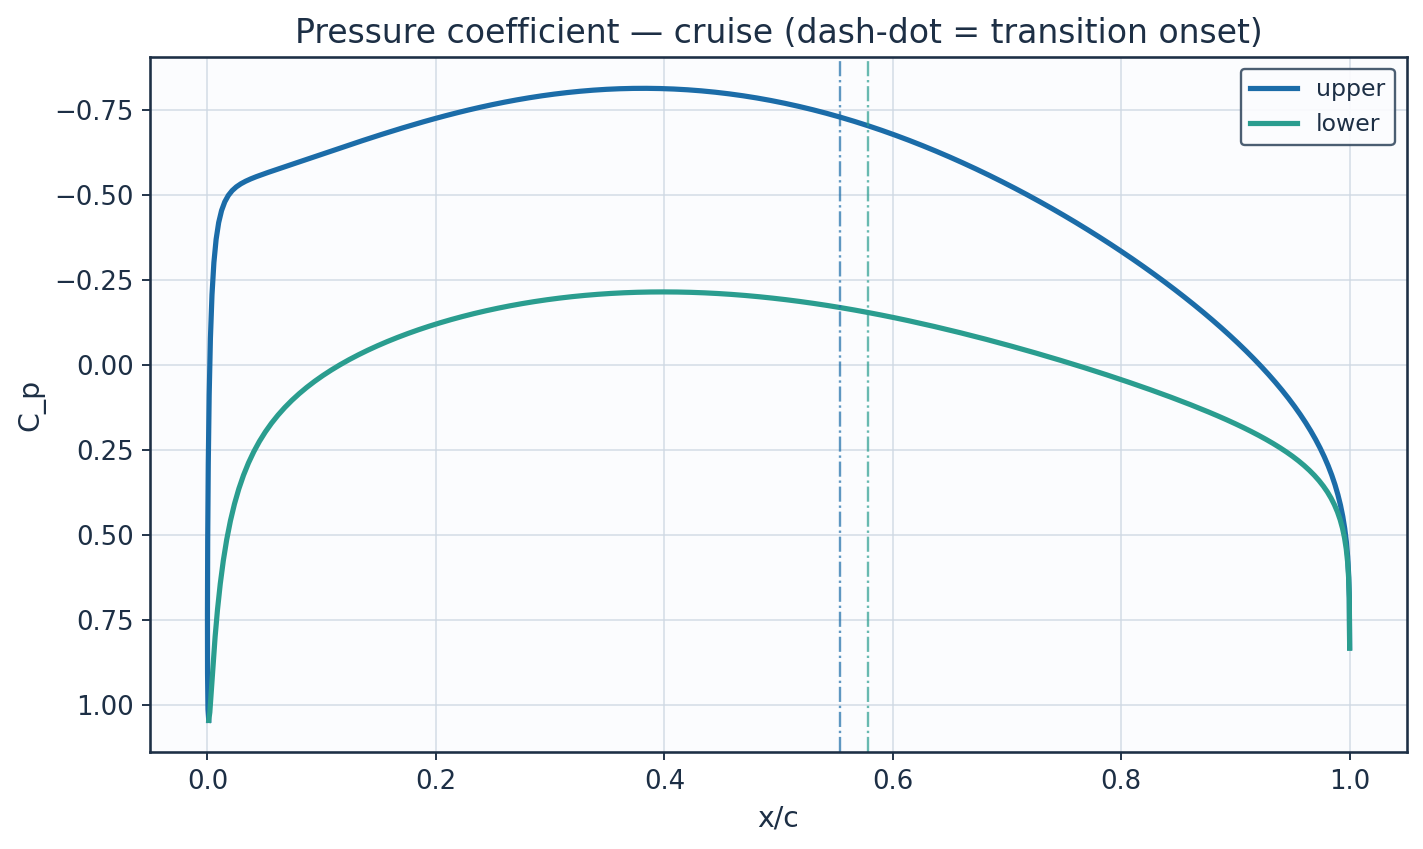
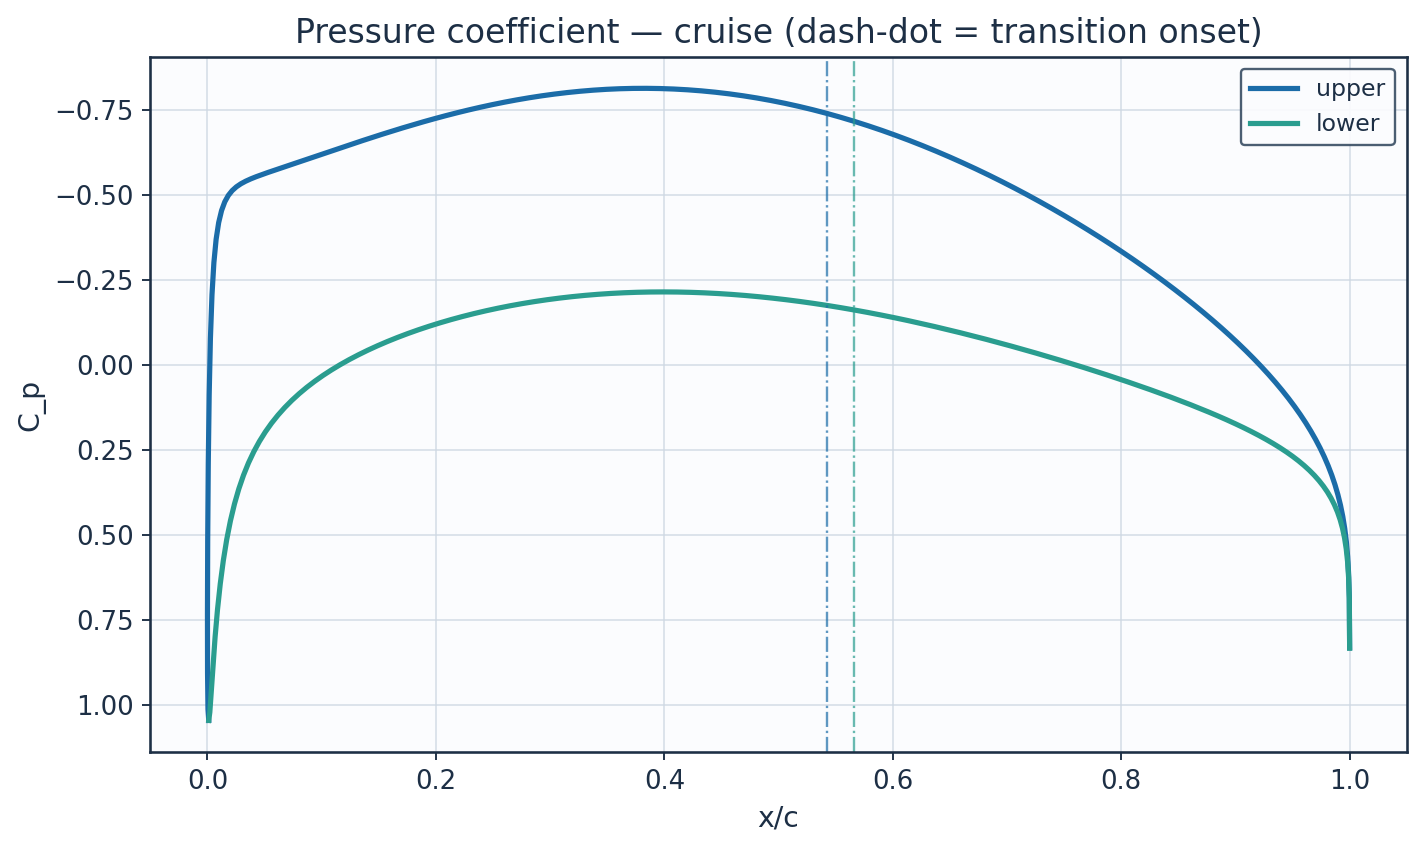
Fourth pass: mark onset where the march fired, close every panel loop
A fourth audit pass, run to the same standard as the first three and applied to
the ~600 lines those three added.  Three defects, and the third is the one worth
recording.

* THE FIGURES MARKED TRANSITION ONE PANEL AFT OF THE TABLES.  Narasimha's
  intermittency is 1 - exp(-0.412 xi^2) with xi = 0 at onset, so gamma is
  EXACTLY zero at the station the kernel fired at.  Six places in
  gen_postprocessing located onset as the first station with gamma > 1e-6, which
  is one station later: on the cruise upper surface the dashed "transition
  onset" line stood at x/c = 0.554 against the 0.542 that transition_summary.csv
  and the report's tables give.  Two artefacts of the same run placing the same
  event 0.012c apart.  They key on the state column now, which march_bl writes
  exactly at i_tr, and a check asserts the distinction.

* THE NACA 64(2)A015 PANEL LOOP WAS OPEN.  panel_solve is a closed-body method -
  N+1 points, N panels, first equal to last, Kutta at a trailing edge that is one
  point - and Selig files need not oblige: that section is tabulated with a blunt
  trailing edge at y = +/-0.00032, so _section_points returned a body with a
  0.00064c slit in it.  Measured, it moves no transition location on the Boltz
  set to three decimals, but nothing was checking and a genuinely thick trailing
  edge would not be so forgiving.  Closed at the mean, and smoke now asserts
  closure for all four sections the project panels, not just the designed one.
[…]

Changed region(s): [[0.5875, 0.0612, 0.6184, 0.8881]]

diff --git a/gen_postprocessing.py b/gen_postprocessing.py
@@ -48,9 +48,26 @@ W=C.WING; cr=C.CRUISE; cl=C.CLIMB
 
 LAM_BAND="#d7e3ef"      # single soft tint for the laminar run
 
+def _onset_index(df):
+    """The station the kernel fired at, as the march recorded it.
+
+    NOT the first station with gamma > 0.  The Narasimha intermittency is
+    1 - exp(-0.412 xi^2) with xi = (s - s_tr)/lambda, so gamma is EXACTLY zero
+    at onset and only becomes positive one station later.  Every figure in this
+    module drew its "transition onset" line there, one panel downstream of the
+    x_tr/c that transition_summary.csv and validation_summary.csv report - on
+    the cruise upper surface, 0.554 against the table's 0.542.  Two artefacts in
+    the same report placing the same event 0.012c apart.
+
+    The state column is exact: march_bl writes "laminar" strictly below i_tr and
+    "transitional" or "turbulent" from i_tr on.
+    """
+    it=df.index[df["state"]!="laminar"]
+    return int(it[0]) if len(it) else None
+
 def _onset(df):
-    it=df.index[df["intermittency_gamma"]>1e-6]
-    return float(df["x_c"][it[0]]) if len(it) else None
+    i=_onset_index(df)
+    return float(df["x_c"][i]) if i is not None else None
 
 def _state_bands(ax, up, lo, cu=PALETTE[0], cl=PALETTE[6]):
     """Clean regime cue: shade only the laminar run (one soft tint) and mark
@@ -161,8 +178,8 @@ def plot_surface(case):
     ax.plot(up["x_c"],up["Cp"],color=PALETTE[0],lw=2.2,label="upper")
     ax.plot(lo["x_c"],lo["Cp"],color=PALETTE[2],lw=2.2,label="lower")
     for d,c in [(up,PALETTE[0]),(lo,PALETTE[2])]:
-        it=d.index[d["intermittency_gamma"]>1e-6]
-        if len(it): ax.axvline(d["x_c"][it[0]],color=c,ls="-.",lw=1.0,alpha=0.7)
+        i=_onset_index(d)
+        if i is not None: ax.axvline(d["x_c"][i],color=c,ls="-.",lw=1.0,alpha=0.7)
     ax.invert_yaxis(); ax.set_xlabel("x/c"); ax.set_ylabel("C_p")
     ax.set_title(f"Pressure coefficient — {case} (dash-dot = transition onset)")
     ax.legend(fontsize=10); finish(fig,f"{CSVP}/{case}_Cp.png")
@@ -215,8 +232,8 @@ def plot_surface(case):
     # threshold is simply absent there.  Both are drawn, the amplification
     # factor on its own axis, and the mechanism is named in the title so the
     # reader knows which pair to read.
-    lam_only=up[up["x_c"]<=(up["x_c"][up.index[up["intermittency_gamma"]>1e-6][0]]
-                            if len(up.index[up["intermittency_gamma"]>1e-6])
+    _i0=_onset_index(up)
+    lam_only=up[up["x_c"]<=(up["x_c"][_i0] if _i0 is not None
                             else up["x_c"].max())]
     fig,ax=new_fig(8.6,5.2)
     ax.plot(up["x_c"],up["Re_theta"],color=PALETTE[0],lw=2.2,label="Re_θ")
@@ -231,19 +248,19 @@ def plot_surface(case):
     ax2.plot(up["x_c"],up["n_crit"],color=PALETTE[5],lw=1.6,ls=":",label="N_crit")
     ax2.set_ylabel("amplification factor N",color=PALETTE[4])
     ax2.set_ylim(0, max(float(up["n_crit"].max()), float(up["n_factor"].max()))*1.35)
-    it=up.index[up["intermittency_gamma"]>1e-6]
-    if len(it):
-        xt=up["x_c"][it[0]]
+    it=_onset_index(up)
+    if it is not None:
+        xt=up["x_c"][it]
         ax.axvline(xt,color=PALETTE[1],ls="-.",lw=1.3)
-        ax.scatter([xt],[up["Re_theta"][it[0]]],s=80,color=PALETTE[1],zorder=5,
+        ax.scatter([xt],[up["Re_theta"][it]],s=80,color=PALETTE[1],zorder=5,
                    label="transition onset")
     # Show the run over which the criterion is live.  On the climb case
     # transition is at 0.025c, so the whole crossing sits in the leftmost three
     # per cent of a full-chord axis and cannot be read.
-    if len(it):
-        ax.set_xlim(-0.01, min(1.0, max(3.0*float(up["x_c"][it[0]]), 0.2)))
+    if it is not None:
+        ax.set_xlim(-0.01, min(1.0, max(3.0*float(up["x_c"][it]), 0.2)))
     ax.set_xlabel("x/c"); ax.set_ylabel("Re_θ",color=PALETTE[0])
-    mech=(up["state"].iloc[-1] if not len(it) else
+    mech=(up["state"].iloc[-1] if it is None else
           pd.read_csv(f"{SOL}/transition_summary.csv")
             .query("case==@case.upper() and surface=='upper'")["mechanism"].iloc[0])
     ax.set_title(f"Transition criterion — {case} upper (governing mechanism: {mech})")
@@ -271,8 +288,8 @@ def plot_cruise_climb_compare():
     ax.plot(mcm["x_c"],mcm["Cf"]*1e3,color=PALETTE[1],lw=2.4,
             label="climb (Tu=0.9%, bypass)")
     for d,c in [(cu,PALETTE[0]),(cm,PALETTE[1])]:
-        it=d.index[d["intermittency_gamma"]>1e-6]
-        if len(it): ax.axvline(d["x_c"][it[0]],color=c,ls="-.",lw=1.1)
+        i=_onset_index(d)
+        if i is not None: ax.axvline(d["x_c"][i],color=c,ls="-.",lw=1.1)
     ax.set_ylim(0,_cf_ylim(cu,cm))
     ax.set_xlabel("x/c"); ax.set_ylabel("C_f ×10³")
     ax.set_title("Upper-surface C_f: cruise vs climb — regime-dependent transition")

diff --git a/solver/utss_solver.py b/solver/utss_solver.py
@@ -293,11 +293,11 @@ def _n_crit(Tu_pct, floor=0.5, anchor=1.10):
     the mean absolute error rose, which is what happens when a constant stops
     being fitted to the set it is scored on.  The flat plate goes from +5.6 per
     cent to +0.07 per cent.  The error figures are NOT quoted here: this said
-    "0.0319c to 0.0334c", and the set's mean has since moved to 0.0384c with
-    corrections that have nothing to do with the anchor, so a before-and-after
-    pair frozen in a docstring stops describing the model as soon as anything
-    else changes.  06_validation/aerofoil_nlf0416_summary.csv carries the
-    current value and is regenerated with the rest.
+    "0.0319c to 0.0334c", and the set's mean has since moved with corrections
+    that have nothing to do with the anchor, so a before-and-after pair frozen
+    in a docstring stops describing the model as soon as anything else changes.
+    06_validation/aerofoil_nlf0416_summary.csv carries the current value and is
+    regenerated with the rest; it is deliberately not repeated here.
 
     Note that the quoted 1100 is itself approximate - the literature gives
     Re_x,tr ~ 2.8e6 and Re_theta = 0.664 sqrt(Re_x) - so the anchor is quoted
@@ -1113,9 +1113,10 @@ def march_bl(s, Ue, nu, Tu_pct=0.2, sweep_deg=0.0, cal=None, a_sound=0.0,
         # This comment used to say about 40 momentum thicknesses on T3C4 at
         # Tu = 2.1 % and about 180 on the aerofoil at 0.03 %, "a spread of four
         # and a half", while the report and the README said 42 and 226, "a
-        # spread of five and a half"; the solver returns 26 and a median of
-        # 206, a spread of nearly eight.  The claim was true and all three
-        # statements of it were wrong, in both directions.
+        # spread of five and a half".  All three were wrong, in both
+        # directions, which is why the current lengths are NOT restated here -
+        # a comment cannot read a CSV, so quoting one is how this happened.
+        # The generated file is the answer.
         # Separation is detected on the Thwaites parameter rather than on the
         # shape factor.  Testing H >= 3.95, the value at which the exact family
         # loses its wall shear, is the more principled statement and it does
@@ -1344,11 +1345,13 @@ def march_bl(s, Ue, nu, Tu_pct=0.2, sweep_deg=0.0, cal=None, a_sound=0.0,
         #     predicts some.  Replacing
         #     the surrogate by K was tried and is not adopted: it does not make
         #     the two swept-wing experiments agree on a critical value, and it
-        #     degrades the calibration set from 22.0 to 44.3 per cent in mean
-        #     transition location.  (Those figures stood at 13.2 and 23.8 here,
-        #     both from before the swept sections were solved in the plane
-        #     normal to the leading edge: the direction of the result held, the
-        #     numbers did not.)  The
+        #     degrades the calibration set, roughly doubling its mean error in
+        #     transition location - the figures are generated into
+        #     06_validation/crossflow_formulations.csv, which scores this
+        #     variant against the shipped one, and are not restated here
+        #     because the pair that used to be (13.2 and 23.8) had gone stale
+        #     the moment the swept sections began being solved in the plane
+        #     normal to the leading edge.  The
         #     limiting approximation is therefore the C1 criterion itself,
         #     which reduces the stability of an inflectional three-dimensional
         #     profile to a single Reynolds number, and not the surrogate for

diff --git a/tools/smoke.py b/tools/smoke.py
@@ -172,6 +172,17 @@ def correlations_against_their_sources():
     # -- Dhawan & Narasimha, the two forms of one law ----------------------
     assert abs(9.0/0.664**1.5 - 16.63) < 5e-3
 
+    # -- the reverse-flow amplification rates the report and README quote ---
+    # 0.0435 at Re_theta = 400 appears in Eq. E12b and in the README, and
+    # 0.0417/0.0461 bound it in two solver comments.  They are properties of
+    # the committed database and nothing checked that the database still has
+    # them.
+    import stability as _st
+    for Re, want in ((200.0, 0.0417), (400.0, 0.0435), (8000.0, 0.0461)):
+        got = float(_st.sigma_curve(_st.H_REVERSE, Re).max())
+        assert abs(got - want) < 5e-5, \
+            "sigma(H_REVERSE, Re_theta=%g) = %.4f, quoted as %.4f" % (Re, got, want)
+
     # -- the flight conditions against Sutherland and the ISA --------------
     # These are typed into case_config, and nothing checked that they are the
     # gas they claim to be.
@@ -217,6 +228,27 @@ def panel_solution():
 
 
 @check
+def section_panel_loops_are_closed():
+    """every section the project panels is a closed loop, not just the designed one"""
+    import case_config as C
+    import gen_validation as V
+    secs = [("UTSS-NLF16", None),
+            ("NLF(2)-0415", V.NLF415),
+            ("NACA 64(2)A015", C.SWEPT2["section"]),
+            ("NLF(1)-0416", C.NLF0416["section"])]
+    for name, fn in secs:
+        X, Y = (C.nlf16_panel_points(60) if fn is None
+                else V._section_points(fn, n=120))
+        gap = float(np.hypot(X[0] - X[-1], Y[0] - Y[-1]))
+        assert gap < 1e-12, (
+            "%s panels do not close: gap %.6f c.  panel_solve is a closed-body "
+            "method and the Kutta condition presumes one trailing-edge point; "
+            "the NACA 64(2)A015 is tabulated with a blunt trailing edge and "
+            "came back open by 0.00064c." % (name, gap))
+        assert len(X) == len(Y) and len(X) > 8
+
+
+@check
 def offbody_field_matches_surface():
     """the off-body field reproduces the surface solution just off the wall"""
     import case_config as C
@@ -238,6 +270,27 @@ def _plate(**kw):
     return solve_flat_plate(kw.pop("L", 1.7), kw.pop("U", 5.4),
                             kw.pop("nu", 1.5e-5), kw.pop("Tu", 3.043),
                             npts=kw.pop("npts", 220), **kw)
+
+
+@check
+def onset_station_is_unambiguous():
+    """the state column marks onset where the march fired, and gamma does not"""
+    r = _plate()
+    i_tr = r["i_tr"]
+    assert i_tr is not None
+    g = np.asarray(r["gamma"], float)
+    st = np.asarray(r["state"], dtype=object)
+    # Narasimha's gamma is 1 - exp(-0.412 xi^2) and xi = 0 at onset, so gamma
+    # is EXACTLY zero at the station the kernel fired at.  A consumer looking
+    # for the first gamma > 0 lands one station downstream, which is how the
+    # figures came to mark transition 0.012c aft of the tables.
+    assert g[i_tr] == 0.0, "gamma at onset is %g, not 0" % g[i_tr]
+    assert st[i_tr] != "laminar", "the onset station is still labelled laminar"
+    assert all(s == "laminar" for s in st[:i_tr]), "a station below onset is not laminar"
+    first_pos = int(np.argmax(g > 1e-6))
+    assert first_pos == i_tr + 1, (
+        "gamma first exceeds 1e-6 at %d, onset is %d - consumers must key on "
+        "the state column, not on gamma" % (first_pos, i_tr))
 
 
 @check

diff --git a/gen_validation.py b/gen_validation.py
@@ -384,6 +384,19 @@ def _section_points(fn, n=200):
         x,y=x[keep],y[keep]
         out.append(CubicSpline(np.sqrt(x), y, bc_type="natural")(np.sqrt(xc)))
     yu,yl=out
+    # Close the loop.  panel_solve is a CLOSED-body method - N+1 points, N
+    # panels, first point equal to last, with the Kutta condition applied at a
+    # trailing edge that is one point.  Selig files need not oblige: the NACA
+    # 64(2)A015 of the Boltz swept-wing set is tabulated with a blunt trailing
+    # edge at y = +/-0.00032, so the splined loop came back open by 0.00064c
+    # and the "body" the panel method saw had a slit in it.  Measured, it moved
+    # no transition location on that set to three decimals - but a section with
+    # a genuinely thick trailing edge would not be so forgiving, and nothing
+    # was checking.  The two surfaces are brought to their mean at the trailing
+    # edge, which is the smallest change that closes it.
+    y_te = 0.5*(yu[-1] + yl[-1])
+    yu = yu.copy(); yl = yl.copy()
+    yu[-1] = yl[-1] = y_te
     return (np.concatenate([xc[::-1],xc[1:]]),
             np.concatenate([yl[::-1],yu[1:]]))
 
@@ -723,8 +736,10 @@ def crossflow_receptivity(write=True, quiet=False):
 
     So the honest statement is narrower than the report's, and firmer.  The gap
     is a difference in the critical cross-flow REYNOLDS NUMBER, which is
-    internally consistent within each facility - 19.5 and 4.6 per cent - and
-    differs between them by 53 per cent.  It is consistent with a receptivity
+    internally consistent within each facility, and differs between them by
+    about half.  The coefficients of variation are the summary this function
+    writes; they are not restated here, because the pair that was (17.9 and
+    4.0) went stale unnoticed and a docstring cannot read its own output.  It is consistent with a receptivity
     difference, and it cannot be converted into a roughness ratio by this
     method, because this method carries no cross-flow instability rate.  Doing
     that needs the Orr-Sommerfeld problem solved on the Falkner-Skan-Cooke
@@ -1157,10 +1172,11 @@ def bubble_length_scaling(df_nlf, write=True, quiet=False):
     a turbulent stream and stretches in a quiet one.  That claim was supported
     by three figures typed into three files, and all three disagreed: the report
     and the README said 42 momentum thicknesses at Tu = 2.1 per cent and 226 at
-    0.03, "a spread of five and a half"; the solver's own comment said about 40
-    and about 180, "a spread of four and a half"; and the solver returns 26 and
-    a median of 206, a spread of nearly eight.  The claim is true and it is
-    stronger than any of the three said.  It is measured here.
+    0.03, "a spread of five and a half", while the solver's own comment said
+    about 40 and about 180, "a spread of four and a half".  The claim is true
+    and stronger than any of them said.  It is measured here, and the measured
+    values live in the CSV rather than in this docstring - restating them would
+    reintroduce exactly the failure it documents.
 
     T3C4 is the separating flat plate at Tu = 2.11 per cent; the aerofoil set is
     every NLF(1)-0416 condition at Tu = 0.03 per cent on which a bubble forms

diff --git a/gen_mesh_setup.py b/gen_mesh_setup.py
@@ -62,9 +62,14 @@ def peak_turbulent_cf():
 
     The wall-normal stack was sized on a typed Cf = 0.0030, described as a
     "representative turbulent Cf at trailing edge".  It is neither: the cruise
-    section's peak turbulent C_f is 0.0018, just behind transition, and its
-    TRAILING-EDGE value is 2.0e-4, because the layer there is close to
-    separation and sits on the H = 2.8 clamp.  A y+ criterion has to be met
+    section's peak turbulent C_f is well under half that, just behind
+    transition, and its TRAILING-EDGE value is smaller again by an order of
+    magnitude, because the layer there is close to separation and sits on the
+    H = 2.8 clamp.  Both are written to 02_mesh/mesh_metrics.csv and
+    04_solution/transition_summary.csv respectively rather than quoted here -
+    this docstring said 0.0018 for the peak, which was read off the surface CSV
+    before the swept-drag correction and the panel count both moved it, and was
+    stale within the hour.  A y+ criterion has to be met
     where the shear is HIGHEST, so the peak is the quantity that sizes the
     grid - and quoting a friction velocity "at the TE" formed from a number
     that is neither the peak nor the TE value made the y+ = 0.8 in the metrics
@@ -85,6 +90,15 @@ def peak_turbulent_cf():
         m=(x>0.006)&(ue>0.12)&(cf<0.008)&(np.asarray(s["gamma"],float)>0.99)
         if m.any():
             best=max(best,float(cf[m].max()))
+    if not best > 0.0:
+        # Neither surface reached gamma = 0.99, so there is no turbulent wall
+        # shear to size a y+ grid against.  Unreachable at the cruise condition,
+        # where both surfaces transition - but a zero here divides into the
+        # first-cell height below and returns inf, which would be written into
+        # the metrics table as a number.
+        raise RuntimeError(
+            "no turbulent run on either surface at the cruise condition, so "
+            "the wall-normal grid has no wall shear to be sized against")
     return best
 
 

diff --git a/tools/pipeline.py b/tools/pipeline.py
@@ -10,8 +10,9 @@ later.
 This driver declares what each stage needs and what it produces, runs the
 independent ones concurrently up to a worker cap, times every stage, and stops
 at the first failure with the log of the stage that failed.  It runs
-tools/smoke.py first by default, because seven seconds spent there is cheaper
-than any of the failures it catches.
+tools/smoke.py first by default, because well under a minute spent there is
+cheaper than any of the failures it catches.  Per-stage timings are written to
+.pipeline/timings.json rather than quoted here, where they went stale.
 
     python3 tools/pipeline.py                    # everything, smoke-gated
     python3 tools/pipeline.py --stages solution,validation

diff --git a/README.md b/README.md
@@ -76,7 +76,7 @@ Two elements are not correlations:
   "the nearest node of its Reynolds-number grid, Re_θ = 210", which is neither
   the value nor a node.)  Regenerate with
   `python3 -c "import sys; sys.path.insert(0,'solver'); import stability;
-  stability.build_database()"` (~4 min on 4 cores); the build is checkpointed
+  stability.build_database()"` (minutes, on several cores); the build is checkpointed
   per shape factor, so an interrupted run resumes rather than restarting.
 * **Separation-bubble closure.** The shear layer is carried across the dead-air
   region by the same two integral equations as the attached layer with the wall
@@ -385,9 +385,10 @@ Sources recorded in `06_validation/sources_and_references.csv`.
 07_equations/     equations_index.csv (LaTeX source of every governing equation)
 solver/           utss_solver.py (engine), stability.py (Orr-Sommerfeld +
                   amplification database), case_config.py, uplot.py (style)
-tools/            smoke.py (20 checks over the whole solver in ~45 s),
-                  pipeline.py (staged regeneration), baseline.py (numeric diff
-                  of every generated CSV against a snapshot)
+tools/            smoke.py (22 checks over the whole solver, well under a
+                  minute), pipeline.py (staged regeneration, timings written to
+                  .pipeline/timings.json), baseline.py (numeric diff of every
+                  generated CSV against a snapshot)
 utss_paths.py     anchors every entry point to the repository root, so a
                   generator run from another directory still reads and writes
                   here
@@ -398,15 +399,17 @@ case.docx         the same report as .docx - a build product, not tracked
 
 ## Reproduce
 ```bash
-python3 tools/smoke.py         # 20 checks over the whole solver, ~45 s.
+python3 tools/smoke.py         # 22 checks over the whole solver, under a minute.
                                #   Run this FIRST and after every edit: a full
-                               #   regeneration is four minutes and the faults
+                               #   regeneration is minutes and the faults
                                #   that waste it are all visible here in the
                                #   first second.
 python3 tools/pipeline.py      # the whole regeneration, as dependency-ordered
                                #   stages, two at a time, smoke-gated and
                                #   timed, stopping at the first failure with
-                               #   that stage's log.  ~4.3 min on two cores.
+                               #   that stage's log.  Per-stage timings land
+                               #   in .pipeline/timings.json; quoting them
+                               #   here is how they went stale.
 ```
 
 The stages can still be run one at a time, in this order, from any directory:
